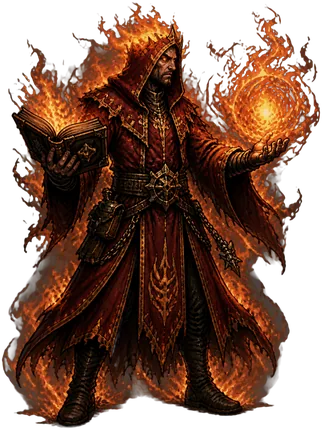
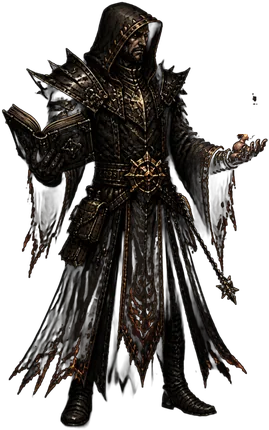
Pyromancien : armure palier V repeinte
Claude-Session: https://claude.ai/code/session_01XuxscubMSQPeew8BrSfQGu

diff --git a/index.html b/index.html
@@ -212,7 +212,7 @@ p{margin:6px 0;line-height:1.45}
 <div id="boot"><div class="bootin"><img src="assets/ui_emblem.webp" alt="" onerror="this.remove()"><h1>Couronne de Cendres</h1><div class="bootbar"><i></i></div><div class="boottxt">Les braises s'allument…</div><button class="btn ghost sm" id="bootskip" style="display:none">Continuer sans attendre</button></div></div>
 <div id="toasts" aria-live="polite"></div>
 <script>window.CC_SW = 1;</script><script>
-window.ART_LIST=["bg_abime","bg_bastion","bg_bastion2","bg_bourg","bg_catacombes","bg_citadelle","bg_foret","bg_marais","bg_terres","bg_titre","bld_academie","bld_chapelle","bld_fonderie","bld_forge","bld_menagerie","bld_porte","bld_taverne","hero_arbaletriere_chasseresse","hero_arbaletriere_t1","hero_arbaletriere_t2","hero_arbaletriere_t3","hero_arbaletriere_t4","hero_arbaletriere_t5","hero_arbaletriere_tireuse_elite","hero_berserker_chef_guerre","hero_berserker_ecorcheur","hero_berserker_t1","hero_berserker_t2","hero_berserker_t3","hero_berserker_t4","hero_berserker_t5","hero_chasseur_sorcieres_purificateur","hero_chasseur_sorcieres_t1","hero_chasseur_sorcieres_t2","hero_chasseur_sorcieres_t3","hero_chasseur_sorcieres_t4","hero_chasseur_sorcieres_t5","hero_chasseur_sorcieres_traqueur","hero_exorciste_confesseur","hero_exorciste_penitent","hero_exorciste_t1","hero_exorciste_t2","hero_exorciste_t3","hero_exorciste_t4","hero_exorciste_t5","hero_gardien_runes_forge_tonnerre","hero_gardien_runes_t1","hero_gardien_runes_t2","hero_gardien_runes_t3","hero_gardien_runes_t4","hero_gardien_runes_t5","hero_gardien_runes_thane_pierre","hero_hallebardier_garde_roi","hero_hallebardier_lansquenet","hero_hallebardier_t1","hero_hallebardier_t2","hero_hallebardier_t3","hero_hallebardier_t4","hero_hallebardier_t5","hero_medecin_peste_apothicaire","hero_medecin_peste_chirurgien","hero_medecin_peste_t1","hero_medecin_peste_t2","hero_medecin_peste_t3","hero_medecin_peste_t4","hero_medecin_peste_t5","hero_menestrel_chantre","hero_menestrel_heraut","hero_menestrel_t1","hero_menestrel_t2","hero_menestrel_t3","hero_menestrel_t4","hero_menestrel_t5","hero_necromancien_liche","hero_necromancien_maitre_tombes","hero_necromancien_t1","hero_necromancien_t2","hero_necromancien_t3","hero_necromancien_t4","hero_necromancien_t5","hero_ombre_assassin","hero_ombre_ombre_sang","hero_ombre_t1","hero_ombre_t2","hero_ombre_t3","hero_ombre_t4","hero_ombre_t5","hero_pretresse_martyre","hero_pretresse_sainte","hero_pretresse_t1","hero_pretresse_t2","hero_pretresse_t3","hero_pretresse_t4","hero_pretresse_t5","hero_pyromancien_archimage","hero_pyromancien_demoniste","hero_pyromancien_t1","hero_pyromancien_t2","hero_pyromancien_t3","hero_pyromancien_t4","hero_pyromancien_t5","hero_revenant_seigneur_sang","hero_revenant_spectre","hero_revenant_t1","hero_revenant_t2","hero_revenant_t3","hero_revenant_t4","hero_revenant_t5","hero_sorciere_druidesse","hero_sorciere_sorciere_noire","hero_sorciere_t1","hero_sorciere_t2","hero_sorciere_t3","hero_sorciere_t4","hero_sorciere_t5","hero_templier_bastion","hero_templier_inquisiteur","hero_templier_t1","hero_templier_t2","hero_templier_t3","hero_templier_t4","hero_templier_t5","map_boss","map_camp","map_combat","map_elite","map_event","map_shop","map_treasure","mon_abbe","mon_alpha","mon_araignee","mon_archer","mon_archer_os","mon_archonte_cendres","mon_boucher","mon_bourreau","mon_brigand","mon_cardinal","mon_charognard","mon_chevalier_dechu","mon_chevalier_os","mon_chevaucheur_calcine","mon_chien_cendre","mon_colosse_braise","mon_crapaud","mon_cultiste","mon_devoreur_lumiere","mon_diablotin","mon_docteur","mon_dryade","mon_follet","mon_gargouille","mon_golem","mon_goule","mon_hallebardier_os","mon_horreur","mon_hydre","mon_inquisiteur","mon_liche","mon_loup","mon_matrone_os","mon_mere_noyes","mon_mere_ronces","mon_moine_flagellant","mon_necrophage","mon_noye","mon_oeil","mon_ogre","mon_pecheur","mon_pendu","mon_penitent_ardent","mon_pestifere","mon_pretre_suie","mon_prieur","mon_profond","mon_rat","mon_reine_sabbat","mon_roi","mon_sangsue","mon_sans_nom","mon_sans_visage","mon_sentinelle_obsidienne","mon_sorciere_marais","mon_spectre","mon_squelette","mon_thuriferaire","pet_araignee","pet_araignee_evo","pet_belette","pet_cerf","pet_cerf_evo","pet_chat_noir","pet_chat_noir_evo","pet_chauve_souris","pet_chauve_souris_evo","pet_chouette","pet_chouette_evo","pet_corbeau","pet_corbeau_evo","pet_crapaud","pet_crapaud_evo","pet_drake","pet_drake_evo","pet_feu_follet","pet_feu_follet_evo","pet_gargouille","pet_gargouille_evo","pet_griffon","pet_griffon_evo","pet_loup","pet_loup_evo","pet_molosse","pet_molosse_evo","pet_ours","pet_ours_evo","pet_renard","pet_renard_evo","pet_salamandre","pet_salamandre_evo","pet_sanglier","pet_sanglier_evo","pet_vipere","pet_vipere_evo","tr_amulette_sel","tr_bague_fer","tr_cape_brume","tr_chapelet","tr_cloche_morte","tr_coeur_braise","tr_coeur_roi","tr_couronne_epines","tr_crane_saint","tr_croc_vampire","tr_dent_loup","tr_ecu_brise","tr_fiole_sang","tr_fragment_couronne","tr_gant_bourreau","tr_griffe_ombre","tr_herbe_rare","tr_oeil_abime","tr_oeil_verre","tr_phylactere","tr_pierre_ame","tr_plume_corbeau","tr_relique_aube","tr_sablier","tr_sceau_rouge","ui_aim","ui_amulet","ui_anvil","ui_armor","ui_axe","ui_back","ui_bag","ui_banner","ui_bark","ui_bell","ui_bird","ui_bless","ui_blood","ui_bolt","ui_bones","ui_book","ui_boom","ui_camp","ui_castle","ui_chain","ui_chapel","ui_charge","ui_chest","ui_claw","ui_cleanse","ui_cloak","ui_coin","ui_crown","ui_cup","ui_curse","ui_dagger","ui_daily","ui_dice","ui_drain","ui_ember","ui_emblem","ui_essence","ui_eye","ui_fang","ui_fear","ui_feather","ui_fire","ui_flames","ui_flare","ui_flask","ui_flee","ui_frost","ui_furnace","ui_gear","ui_gem","ui_ghost","ui_glove","ui_guard","ui_hammer","ui_hand","ui_heal","ui_heart","ui_helm","ui_herb","ui_horn","ui_hourglass","ui_iron","ui_knives","ui_link","ui_lock","ui_lute","ui_mace","ui_map","ui_mark","ui_mask","ui_meteor","ui_moon","ui_music","ui_note","ui_pact","ui_paw","ui_pawn","ui_pierce","ui_pillar","ui_potion","ui_quest","ui_rage","ui_rain","ui_ray","ui_ring","ui_riposte","ui_root","ui_rosary","ui_run","ui_sanct","ui_scroll","ui_scythe","ui_seal","ui_shard","ui_shield","ui_shroud","ui_skull","ui_skullc","ui_smoke","ui_sound","ui_star","ui_stun","ui_sun","ui_sword","ui_swords","ui_tavern","ui_thorn","ui_torch","ui_trap","ui_tree","ui_trophy","ui_vial","ui_wall","ui_weapon","ui_whirl","ui_wind","wpn_arbalete","wpn_baton","wpn_croix","wpn_dagues","wpn_encensoir","wpn_espadon","wpn_faucille","wpn_faux","wpn_grimoire","wpn_hache","wpn_hallebarde","wpn_luth","wpn_marteau","wpn_masse","wpn_rapiere"];window.ART_META={"hero_arbaletriere_chasseresse": 0.019,"hero_arbaletriere_t1": 0.009,"hero_arbaletriere_t2": 0.009,"hero_arbaletriere_t3": 0.007,"hero_arbaletriere_t4": 0.007,"hero_arbaletriere_t5": 0.007,"hero_arbaletriere_tireuse_elite": 0.007,"hero_berserker_chef_guerre": 0.03,"hero_berserker_ecorcheur": 0.007,"hero_berserker_t1": 0.014,"hero_berserker_t2": 0.009,"hero_berserker_t3": 0.009,"hero_berserker_t4": 0.007,"hero_berserker_t5": 0.007,"hero_chasseur_sorcieres_purificateur": 0.056,"hero_chasseur_sorcieres_t1": 0.007,"hero_chasseur_sorcieres_t2": 0.009,"hero_chasseur_sorcieres_t3": 0.007,"hero_chasseur_sorcieres_t4": 0.007,"hero_chasseur_sorcieres_t5": 0.012,"hero_chasseur_sorcieres_traqueur": 0.007,"hero_exorciste_confesseur": 0.005,"hero_exorciste_penitent": 0.028,"hero_exorciste_t1": 0.04,"hero_exorciste_t2": 0.065,"hero_exorciste_t3": 0.074,"hero_exorciste_t4": 0.072,"hero_exorciste_t5": 0.03,"hero_gardien_runes_forge_tonnerre": 0.023,"hero_gardien_runes_t1": 0.014,"hero_gardien_runes_t2": 0.012,"hero_gardien_runes_t3": 0.014,"hero_gardien_runes_t4": 0.014,"hero_gardien_runes_t5": 0.035,"hero_gardien_runes_thane_pierre": 0.014,"hero_hallebardier_garde_roi": 0.016,"hero_hallebardier_lansquenet": 0.028,"hero_hallebardier_t1": 0.012,"hero_hallebardier_t2": 0.012,"hero_hallebardier_t3": 0.012,"hero_hallebardier_t4": 0.021,"hero_hallebardier_t5": 0.014,"hero_medecin_peste_apothicaire": 0.005,"hero_medecin_peste_chirurgien": 0.005,"hero_medecin_peste_t1": 0.007,"hero_medecin_peste_t2": 0.005,"hero_medecin_peste_t3": 0.005,"hero_medecin_peste_t4": 0.005,"hero_medecin_peste_t5": 0.005,"hero_menestrel_chantre": 0.007,"hero_menestrel_heraut": 0.13,"hero_menestrel_t1": 0.007,"hero_menestrel_t2": 0.005,"hero_menestrel_t3": 0.007,"hero_menestrel_t4": 0.012,"hero_menestrel_t5": 0.007,"hero_necromancien_liche": 0.014,"hero_necromancien_maitre_tombes": 0.079,"hero_necromancien_t1": 0.009,"hero_necromancien_t2": 0.016,"hero_necromancien_t3": 0.016,"hero_necromancien_t4": 0.016,"hero_necromancien_t5": 0.012,"hero_ombre_assassin": 0.007,"hero_ombre_ombre_sang": 0.009,"hero_ombre_t1": 0.009,"hero_ombre_t2": 0.009,"hero_ombre_t3": 0.009,"hero_ombre_t4": 0.009,"hero_ombre_t5": 0.007,"hero_pretresse_martyre": 0.102,"hero_pretresse_sainte": 0.07,"hero_pretresse_t1": 0.079,"hero_pretresse_t2": 0.1,"hero_pretresse_t3": 0.121,"hero_pretresse_t4": 0.091,"hero_pretresse_t5": 0.06,"hero_pyromancien_archimage": 0.007,"hero_pyromancien_demoniste": 0.051,"hero_pyromancien_t1": 0.009,"hero_pyromancien_t2": 0.007,"hero_pyromancien_t3": 0.007,"hero_pyromancien_t4": 0.007,"hero_pyromancien_t5": 0.026,"hero_revenant_seigneur_sang": 0.151,"hero_revenant_spectre": 0.114,"hero_revenant_t1": 0.109,"hero_revenant_t2": 0.151,"hero_revenant_t3": 0.156,"hero_revenant_t4": 0.149,"hero_revenant_t5": 0.095,"hero_sorciere_druidesse": 0.051,"hero_sorciere_sorciere_noire": 0.028,"hero_sorciere_t1": 0.007,"hero_sorciere_t2": 0.014,"hero_sorciere_t3": 0.012,"hero_sorciere_t4": 0.009,"hero_sorciere_t5": 0.019,"hero_templier_bastion": 0.021,"hero_templier_inquisiteur": 0.007,"hero_templier_t1": 0.007,"hero_templier_t2": 0.007,"hero_templier_t3": 0.005,"hero_templier_t4": 0.026,"hero_templier_t5": 0.009};window.SFX_LIST=["amb_abime","amb_bastion","amb_bourg","amb_catacombes","amb_citadelle","amb_foret","amb_marais","fx_bell","fx_coin","fx_crit","fx_dark","fx_die","fx_door","fx_fire","fx_forge","fx_heal","fx_heavy","fx_hit","fx_holy","fx_miss","fx_open","fx_shoot","fx_slash","fx_step"];window.ART_FLIP=["mon_archer_os","mon_moine_flagellant","mon_spectre","hero_ombre_assassin","hero_ombre_ombre_sang","mon_cardinal"];
+window.ART_LIST=["bg_abime","bg_bastion","bg_bastion2","bg_bourg","bg_catacombes","bg_citadelle","bg_foret","bg_marais","bg_terres","bg_titre","bld_academie","bld_chapelle","bld_fonderie","bld_forge","bld_menagerie","bld_porte","bld_taverne","hero_arbaletriere_chasseresse","hero_arbaletriere_t1","hero_arbaletriere_t2","hero_arbaletriere_t3","hero_arbaletriere_t4","hero_arbaletriere_t5","hero_arbaletriere_tireuse_elite","hero_berserker_chef_guerre","hero_berserker_ecorcheur","hero_berserker_t1","hero_berserker_t2","hero_berserker_t3","hero_berserker_t4","hero_berserker_t5","hero_chasseur_sorcieres_purificateur","hero_chasseur_sorcieres_t1","hero_chasseur_sorcieres_t2","hero_chasseur_sorcieres_t3","hero_chasseur_sorcieres_t4","hero_chasseur_sorcieres_t5","hero_chasseur_sorcieres_traqueur","hero_exorciste_confesseur","hero_exorciste_penitent","hero_exorciste_t1","hero_exorciste_t2","hero_exorciste_t3","hero_exorciste_t4","hero_exorciste_t5","hero_gardien_runes_forge_tonnerre","hero_gardien_runes_t1","hero_gardien_runes_t2","hero_gardien_runes_t3","hero_gardien_runes_t4","hero_gardien_runes_t5","hero_gardien_runes_thane_pierre","hero_hallebardier_garde_roi","hero_hallebardier_lansquenet","hero_hallebardier_t1","hero_hallebardier_t2","hero_hallebardier_t3","hero_hallebardier_t4","hero_hallebardier_t5","hero_medecin_peste_apothicaire","hero_medecin_peste_chirurgien","hero_medecin_peste_t1","hero_medecin_peste_t2","hero_medecin_peste_t3","hero_medecin_peste_t4","hero_medecin_peste_t5","hero_menestrel_chantre","hero_menestrel_heraut","hero_menestrel_t1","hero_menestrel_t2","hero_menestrel_t3","hero_menestrel_t4","hero_menestrel_t5","hero_necromancien_liche","hero_necromancien_maitre_tombes","hero_necromancien_t1","hero_necromancien_t2","hero_necromancien_t3","hero_necromancien_t4","hero_necromancien_t5","hero_ombre_assassin","hero_ombre_ombre_sang","hero_ombre_t1","hero_ombre_t2","hero_ombre_t3","hero_ombre_t4","hero_ombre_t5","hero_pretresse_martyre","hero_pretresse_sainte","hero_pretresse_t1","hero_pretresse_t2","hero_pretresse_t3","hero_pretresse_t4","hero_pretresse_t5","hero_pyromancien_archimage","hero_pyromancien_demoniste","hero_pyromancien_t1","hero_pyromancien_t2","hero_pyromancien_t3","hero_pyromancien_t4","hero_pyromancien_t5","hero_revenant_seigneur_sang","hero_revenant_spectre","hero_revenant_t1","hero_revenant_t2","hero_revenant_t3","hero_revenant_t4","hero_revenant_t5","hero_sorciere_druidesse","hero_sorciere_sorciere_noire","hero_sorciere_t1","hero_sorciere_t2","hero_sorciere_t3","hero_sorciere_t4","hero_sorciere_t5","hero_templier_bastion","hero_templier_inquisiteur","hero_templier_t1","hero_templier_t2","hero_templier_t3","hero_templier_t4","hero_templier_t5","map_boss","map_camp","map_combat","map_elite","map_event","map_shop","map_treasure","mon_abbe","mon_alpha","mon_araignee","mon_archer","mon_archer_os","mon_archonte_cendres","mon_boucher","mon_bourreau","mon_brigand","mon_cardinal","mon_charognard","mon_chevalier_dechu","mon_chevalier_os","mon_chevaucheur_calcine","mon_chien_cendre","mon_colosse_braise","mon_crapaud","mon_cultiste","mon_devoreur_lumiere","mon_diablotin","mon_docteur","mon_dryade","mon_follet","mon_gargouille","mon_golem","mon_goule","mon_hallebardier_os","mon_horreur","mon_hydre","mon_inquisiteur","mon_liche","mon_loup","mon_matrone_os","mon_mere_noyes","mon_mere_ronces","mon_moine_flagellant","mon_necrophage","mon_noye","mon_oeil","mon_ogre","mon_pecheur","mon_pendu","mon_penitent_ardent","mon_pestifere","mon_pretre_suie","mon_prieur","mon_profond","mon_rat","mon_reine_sabbat","mon_roi","mon_sangsue","mon_sans_nom","mon_sans_visage","mon_sentinelle_obsidienne","mon_sorciere_marais","mon_spectre","mon_squelette","mon_thuriferaire","pet_araignee","pet_araignee_evo","pet_belette","pet_cerf","pet_cerf_evo","pet_chat_noir","pet_chat_noir_evo","pet_chauve_souris","pet_chauve_souris_evo","pet_chouette","pet_chouette_evo","pet_corbeau","pet_corbeau_evo","pet_crapaud","pet_crapaud_evo","pet_drake","pet_drake_evo","pet_feu_follet","pet_feu_follet_evo","pet_gargouille","pet_gargouille_evo","pet_griffon","pet_griffon_evo","pet_loup","pet_loup_evo","pet_molosse","pet_molosse_evo","pet_ours","pet_ours_evo","pet_renard","pet_renard_evo","pet_salamandre","pet_salamandre_evo","pet_sanglier","pet_sanglier_evo","pet_vipere","pet_vipere_evo","tr_amulette_sel","tr_bague_fer","tr_cape_brume","tr_chapelet","tr_cloche_morte","tr_coeur_braise","tr_coeur_roi","tr_couronne_epines","tr_crane_saint","tr_croc_vampire","tr_dent_loup","tr_ecu_brise","tr_fiole_sang","tr_fragment_couronne","tr_gant_bourreau","tr_griffe_ombre","tr_herbe_rare","tr_oeil_abime","tr_oeil_verre","tr_phylactere","tr_pierre_ame","tr_plume_corbeau","tr_relique_aube","tr_sablier","tr_sceau_rouge","ui_aim","ui_amulet","ui_anvil","ui_armor","ui_axe","ui_back","ui_bag","ui_banner","ui_bark","ui_bell","ui_bird","ui_bless","ui_blood","ui_bolt","ui_bones","ui_book","ui_boom","ui_camp","ui_castle","ui_chain","ui_chapel","ui_charge","ui_chest","ui_claw","ui_cleanse","ui_cloak","ui_coin","ui_crown","ui_cup","ui_curse","ui_dagger","ui_daily","ui_dice","ui_drain","ui_ember","ui_emblem","ui_essence","ui_eye","ui_fang","ui_fear","ui_feather","ui_fire","ui_flames","ui_flare","ui_flask","ui_flee","ui_frost","ui_furnace","ui_gear","ui_gem","ui_ghost","ui_glove","ui_guard","ui_hammer","ui_hand","ui_heal","ui_heart","ui_helm","ui_herb","ui_horn","ui_hourglass","ui_iron","ui_knives","ui_link","ui_lock","ui_lute","ui_mace","ui_map","ui_mark","ui_mask","ui_meteor","ui_moon","ui_music","ui_note","ui_pact","ui_paw","ui_pawn","ui_pierce","ui_pillar","ui_potion","ui_quest","ui_rage","ui_rain","ui_ray","ui_ring","ui_riposte","ui_root","ui_rosary","ui_run","ui_sanct","ui_scroll","ui_scythe","ui_seal","ui_shard","ui_shield","ui_shroud","ui_skull","ui_skullc","ui_smoke","ui_sound","ui_star","ui_stun","ui_sun","ui_sword","ui_swords","ui_tavern","ui_thorn","ui_torch","ui_trap","ui_tree","ui_trophy","ui_vial","ui_wall","ui_weapon","ui_whirl","ui_wind","wpn_arbalete","wpn_baton","wpn_croix","wpn_dagues","wpn_encensoir","wpn_espadon","wpn_faucille","wpn_faux","wpn_grimoire","wpn_hache","wpn_hallebarde","wpn_luth","wpn_marteau","wpn_masse","wpn_rapiere"];window.ART_META={"hero_arbaletriere_chasseresse": 0.019,"hero_arbaletriere_t1": 0.009,"hero_arbaletriere_t2": 0.009,"hero_arbaletriere_t3": 0.007,"hero_arbaletriere_t4": 0.007,"hero_arbaletriere_t5": 0.007,"hero_arbaletriere_tireuse_elite": 0.007,"hero_berserker_chef_guerre": 0.03,"hero_berserker_ecorcheur": 0.007,"hero_berserker_t1": 0.014,"hero_berserker_t2": 0.009,"hero_berserker_t3": 0.009,"hero_berserker_t4": 0.007,"hero_berserker_t5": 0.007,"hero_chasseur_sorcieres_purificateur": 0.056,"hero_chasseur_sorcieres_t1": 0.007,"hero_chasseur_sorcieres_t2": 0.009,"hero_chasseur_sorcieres_t3": 0.007,"hero_chasseur_sorcieres_t4": 0.007,"hero_chasseur_sorcieres_t5": 0.012,"hero_chasseur_sorcieres_traqueur": 0.007,"hero_exorciste_confesseur": 0.005,"hero_exorciste_penitent": 0.028,"hero_exorciste_t1": 0.04,"hero_exorciste_t2": 0.065,"hero_exorciste_t3": 0.074,"hero_exorciste_t4": 0.072,"hero_exorciste_t5": 0.03,"hero_gardien_runes_forge_tonnerre": 0.023,"hero_gardien_runes_t1": 0.014,"hero_gardien_runes_t2": 0.012,"hero_gardien_runes_t3": 0.014,"hero_gardien_runes_t4": 0.014,"hero_gardien_runes_t5": 0.035,"hero_gardien_runes_thane_pierre": 0.014,"hero_hallebardier_garde_roi": 0.016,"hero_hallebardier_lansquenet": 0.028,"hero_hallebardier_t1": 0.012,"hero_hallebardier_t2": 0.012,"hero_hallebardier_t3": 0.012,"hero_hallebardier_t4": 0.021,"hero_hallebardier_t5": 0.014,"hero_medecin_peste_apothicaire": 0.005,"hero_medecin_peste_chirurgien": 0.005,"hero_medecin_peste_t1": 0.007,"hero_medecin_peste_t2": 0.005,"hero_medecin_peste_t3": 0.005,"hero_medecin_peste_t4": 0.005,"hero_medecin_peste_t5": 0.005,"hero_menestrel_chantre": 0.007,"hero_menestrel_heraut": 0.13,"hero_menestrel_t1": 0.007,"hero_menestrel_t2": 0.005,"hero_menestrel_t3": 0.007,"hero_menestrel_t4": 0.012,"hero_menestrel_t5": 0.007,"hero_necromancien_liche": 0.014,"hero_necromancien_maitre_tombes": 0.079,"hero_necromancien_t1": 0.009,"hero_necromancien_t2": 0.016,"hero_necromancien_t3": 0.016,"hero_necromancien_t4": 0.016,"hero_necromancien_t5": 0.012,"hero_ombre_assassin": 0.007,"hero_ombre_ombre_sang": 0.009,"hero_ombre_t1": 0.009,"hero_ombre_t2": 0.009,"hero_ombre_t3": 0.009,"hero_ombre_t4": 0.009,"hero_ombre_t5": 0.007,"hero_pretresse_martyre": 0.102,"hero_pretresse_sainte": 0.07,"hero_pretresse_t1": 0.079,"hero_pretresse_t2": 0.1,"hero_pretresse_t3": 0.121,"hero_pretresse_t4": 0.091,"hero_pretresse_t5": 0.06,"hero_pyromancien_archimage": 0.007,"hero_pyromancien_demoniste": 0.051,"hero_pyromancien_t1": 0.009,"hero_pyromancien_t2": 0.007,"hero_pyromancien_t3": 0.007,"hero_pyromancien_t4": 0.007,"hero_pyromancien_t5": 0.009,"hero_revenant_seigneur_sang": 0.151,"hero_revenant_spectre": 0.114,"hero_revenant_t1": 0.109,"hero_revenant_t2": 0.151,"hero_revenant_t3": 0.156,"hero_revenant_t4": 0.149,"hero_revenant_t5": 0.095,"hero_sorciere_druidesse": 0.051,"hero_sorciere_sorciere_noire": 0.028,"hero_sorciere_t1": 0.007,"hero_sorciere_t2": 0.014,"hero_sorciere_t3": 0.012,"hero_sorciere_t4": 0.009,"hero_sorciere_t5": 0.019,"hero_templier_bastion": 0.021,"hero_templier_inquisiteur": 0.007,"hero_templier_t1": 0.007,"hero_templier_t2": 0.007,"hero_templier_t3": 0.005,"hero_templier_t4": 0.026,"hero_templier_t5": 0.009};window.SFX_LIST=["amb_abime","amb_bastion","amb_bourg","amb_catacombes","amb_citadelle","amb_foret","amb_marais","fx_bell","fx_coin","fx_crit","fx_dark","fx_die","fx_door","fx_fire","fx_forge","fx_heal","fx_heavy","fx_hit","fx_holy","fx_miss","fx_open","fx_shoot","fx_slash","fx_step"];window.ART_FLIP=["mon_archer_os","mon_moine_flagellant","mon_spectre","hero_ombre_assassin","hero_ombre_ombre_sang","mon_cardinal"];
 /* ═══════════════════════ Couronne de Cendres — utilitaires ═══════════════════════ */
 "use strict";
 const HASWIN = typeof window !== "undefined" && typeof document !== "undefined";

diff --git a/sw.js b/sw.js
@@ -1,5 +1,5 @@
 /* Service worker : le jeu fonctionne hors connexion une fois installé. */
-const CACHE = "couronne-cendres-742242da8b", ART_CACHE = "couronne-cendres-art-efe9809a";
+const CACHE = "couronne-cendres-3a573e43be", ART_CACHE = "couronne-cendres-art-33f501eb";
 const SHELL = ["./", "./index.html", "./manifest.webmanifest", "./icon-192.png", "./icon-512.png", "./icon-maskable-512.png", "./apple-touch-icon.png", "./favicon-64.png"];
 self.addEventListener("install", e => { e.waitUntil(caches.open(CACHE).then(c => c.addAll(SHELL)).then(() => self.skipWaiting())); });
 self.addEventListener("activate", e => { e.waitUntil(caches.keys().then(ks => Promise.all(ks.filter(k => k !== CACHE && k !== ART_CACHE).map(k => caches.delete(k)))).then(() => self.clients.claim())); });
